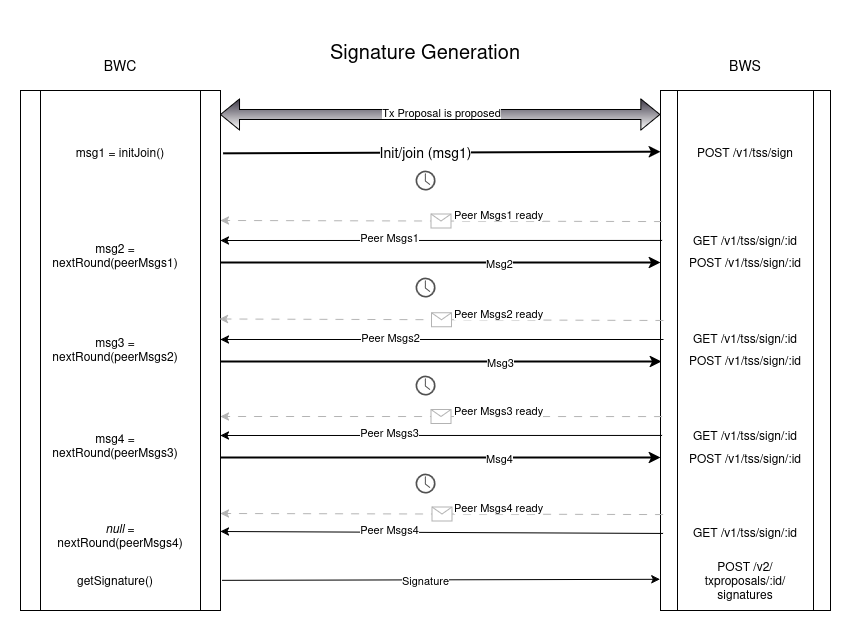
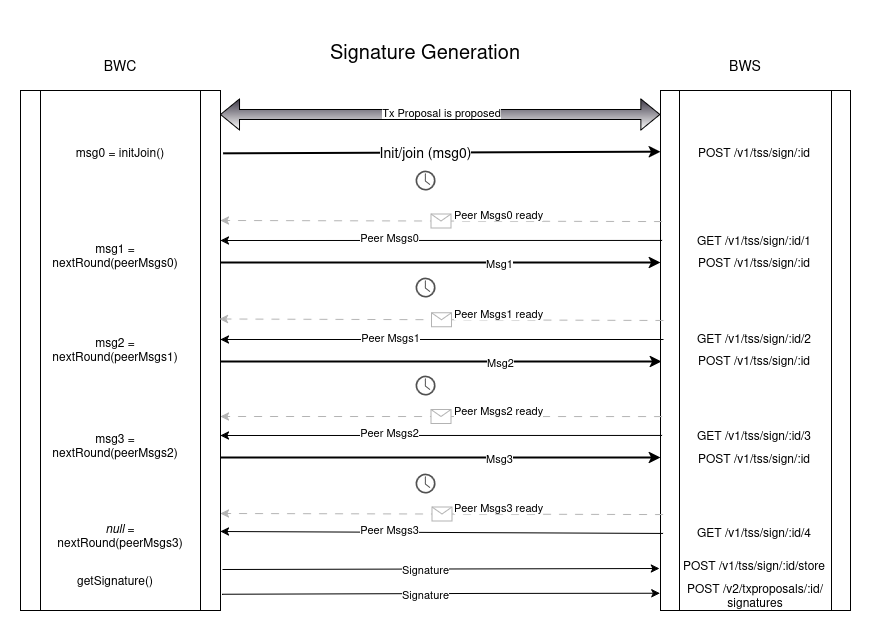
update documentation & tweak data structures for clarity

diff --git a/packages/bitcore-wallet-service/src/lib/tss.ts b/packages/bitcore-wallet-service/src/lib/tss.ts
@@ -47,8 +47,8 @@ class TssKeyGenClass {
     return {};
   }
 
-  async processMessage(params: { id: string; message: ITssKeyMessageObject; copayerId: string; }) {
-    const { id, message, copayerId } = params;
+  async processMessage(params: { id: string; message: ITssKeyMessageObject; n?: string | number; password?: string; copayerId: string; }) {
+    const { id, message, n, copayerId } = params;
     if (!id || typeof id !== 'string') {
       throw Errors.TSS_GENERIC_ERROR.withMessage('Invalid id provided: ' + id);
     }
@@ -82,7 +82,7 @@ class TssKeyGenClass {
       if (!this._isValidBroadcastMessage({ message })) {
         throw Errors.TSS_INVALID_MESSAGE.withMessage('Invalid broadcast message provided');
       }
-      await this._initSession({ id, message, storage, copayerId });
+      await this._initSession({ id, message, n, storage, copayerId });
     } else {
       throw Errors.TSS_SESSION_NOT_FOUND;
     }
@@ -116,20 +116,24 @@ class TssKeyGenClass {
       typeof message?.p2pMessages?.[0]?.commitment === 'string';
   }
 
-  private async _initSession(params: { id: string; message: ITssKeyMessageObject & { n?: number | string; password?: string }; storage: Storage; copayerId: string; }) {
-    const { id, message, storage, copayerId } = params;
-    const n = parseInt(message.n as string);
+  private async _initSession(params: {
+    id: string;
+    message: ITssKeyMessageObject,
+    n: number | string;
+    password?: string;
+    storage: Storage;
+    copayerId: string;
+  }) {
+    const { id, message, password, storage, copayerId } = params;
+    const n = parseInt(params.n as string);
     if (!n || n < 1) {
       throw Errors.TSS_GENERIC_ERROR.withMessage('Invalid n provided: ' + n);
     }
 
     let passwordHash: string = null;
-    if (message.password) {
-      passwordHash = BitcoreLib.crypto.Hash.sha256(Buffer.from(id + message.password)).toString('hex');
+    if (password) {
+      passwordHash = BitcoreLib.crypto.Hash.sha256(Buffer.from(id + password)).toString('hex');
     }
-    
-    delete message.n;
-    delete message.password;
     
     const doc = TssKeyGenModel.create({
       id,

diff --git a/packages/bitcore-wallet-client/src/lib/tsskey.ts b/packages/bitcore-wallet-client/src/lib/tsskey.ts
@@ -240,10 +240,8 @@ export class TssKeyGen extends EventEmitter {
     this.partyId = parseInt(partyId);
 
     const msg = await keygen.initJoin();
-    if (password || extra) {
-      msg.password = password || extra;
-    }
-    await this.#request.post('/v1/tss/keygen/' + this.id, msg);
+    password = password || extra;
+    await this.#request.post('/v1/tss/keygen/' + this.id, { message: msg, n: this.n, password });
     return this;
   }
 
@@ -283,7 +281,7 @@ export class TssKeyGen extends EventEmitter {
    * - `roundsubmitted` => number: A round has been submitted to the server. Emits the round number
    * - `keychain` => IKeyChain: The keychain is ready. Emits the keychain object
    * - `complete` => void: The key generation process is complete
-   * - `error` => Error: An error occurred during the process. Emits the error
+   * - `error` => Error: An error occurred during the process. Emits the error. Note that this will not stop the subscription.
    * @param {object} [params]
    * @param {number} [params.timeout] Timeout in milliseconds for the subscription to check for new messages (default: 1000)
    * @param {function} [params.iterHandler] Custom function to fire every iteration. Does not fire on error. 
@@ -310,7 +308,7 @@ export class TssKeyGen extends EventEmitter {
             if (!this.#keygen.isKeyChainReady()) {
               // For 2 P2P messages (i.e. party of 3), it already exceeds 100 KB (190 KB)
               // Assuming ~80KB per message, the max server size of 2MB would be ~25 P2P messages
-              await this.#request.post(`/v1/tss/keygen/${this.id}`, msg);
+              await this.#request.post(`/v1/tss/keygen/${this.id}`, { message: msg });
               this.emit('roundsubmitted', thisRound);
             }
           } catch (err) {

diff --git a/packages/bitcore-wallet-client/src/lib/tsssign.ts b/packages/bitcore-wallet-client/src/lib/tsssign.ts
@@ -135,7 +135,7 @@ export class TssSign extends EventEmitter {
    * - `roundsubmitted` => number: A round has been submitted to the server. Emits the round number
    * - `signature` => ISignature: The signature is ready. Emits the signature object
    * - `complete` => void: The signature generation process is complete
-   * - `error` => Error: An error occurred during the process. Emits the error
+   * - `error` => Error: An error occurred during the process. Emits the error. Note that this will not stop the subscription.
    * @param {object} [params]
    * @param {number} [params.timeout] Timeout in milliseconds for the subscription to check for new messages (default: 1000)
    * @param {function} [params.iterHandler] Custom function to fire every iteration. Does not fire on error. 
@@ -162,7 +162,7 @@ export class TssSign extends EventEmitter {
             if (!this.#sign.isSignatureReady()) {
               // For 2 P2P messages (i.e. party of 3), it already exceeds 100 KB (190 KB)
               // Assuming ~80KB per message, the max server size of 2MB would be ~25 P2P messages
-              await this.#request.post(`/v1/tss/sign/${this.id}`, msg);
+              await this.#request.post(`/v1/tss/sign/${this.id}`, { message: msg });
               this.emit('roundsubmitted', thisRound);
             }
           } catch (err) {

diff --git a/packages/bitcore-wallet-service/src/lib/routes/tss.ts b/packages/bitcore-wallet-service/src/lib/routes/tss.ts
@@ -24,9 +24,9 @@ export class TssRouter {
     router.post('/v1/tss/keygen/:id', createWalletLimiter(opts), verifyTssMessage, async function(req, res) {
       try {
         const id = req.params.id;
-        const msg = req.body;
+        const { message, n, password } = req.body;
         const copayerId = req.headers['x-identity'];
-        await TssKeyGen.processMessage({ id, message: msg, copayerId });
+        await TssKeyGen.processMessage({ id, message, n, password, copayerId });
         return res.send();
       } catch (err) {
         return returnError(err ?? 'unknown', res, req);
@@ -60,9 +60,9 @@ export class TssRouter {
     router.post('/v1/tss/sign/:id', authRequest(), verifyTssMessage, async function(req, res) {
       try {
         const id = req.params.id;
-        const msg = req.body;
+        const { message } = req.body;
         const copayerId = req.headers['x-identity'];
-        await TssSign.processMessage({ id, message: msg, copayerId });
+        await TssSign.processMessage({ id, message, copayerId });
         return res.send();
       } catch (err) {
         return returnError(err ?? 'unknown', res, req);

diff --git a/packages/bitcore-wallet-service/TSS.md b/packages/bitcore-wallet-service/TSS.md
@@ -1,5 +1,5 @@
 # DKG
-This document explains the specs for the client implementation of distributed key generation (DKG) for the threshold signature scheme (TSS).
+This document explains the specs for the client implementation of distributed _key_ generation (DKG) for the threshold signature scheme (TSS). This logic is mostly abstracted away by the `TssKeyGen` class in `bitcore-wallet-client/lib/tsskey.ts`.
 
 
 ### Asynchronous DKG
@@ -9,8 +9,9 @@ If the DKG ceremony is executed asynchronously (meaning all parties are not requ
 ![DKG Flow](https://drive.google.com/uc?export=view&id=1A-zzWamhDmFzPY7GUqYNvc8BFHMUM22c)
 
 ### API Spec
+
 <details>
-<summary style="font-size:17px"><span style="font-weight:bold">POST</span> /v1/tss/keygen</summary>
+<summary style="font-size:17px"><span style="font-weight:bold">POST</span> /v1/tss/keygen/:id</summary>
 
 Initialize the `KeyGen` class with a seed that is the derived private key.
 
@@ -23,26 +24,16 @@ Initialize the `KeyGen` class with a seed that is the derived private key.
 ### Request body:
 ```typescript
 {
-  sessionId: string,
-  message: {
-    partyId: number,
-    publicKey: string,
-    broadcastMessages: Array<string>
-  }
+  message: object, // Message object from the TSS keygen initJoin() or nextRound() methods
+  n?: number, // Number of participants. Only provided by party 0 when initiating the session
+  password?: string // Optional join password set by party 0 when initiating the session
 }
-
 ```
 
 ### Response body:
 ```typescript
-{
-  error?: string,
-  result?: {
-    sessionId: string
-  }
-}
+None
 ```
-
 </details>
 
 <details>
@@ -56,42 +47,9 @@ None
 ### Response body:
 ```typescript
 {
-  error?: string,
-  result?: {
-    sessionId: string,
-    round: number,
-    messages: Array<{
-      partyId: number,
-      publicKey: string,
-      p2pMessages: Array<string>,
-      broadcastMessages: Array<string>
-    }>,
-  }
-}
-```
-</details>
-
-<details>
-<summary style="font-size:17px"><span style="font-weight:bold">POST</span> /v1/tss/keygen/:id</summary>
-
-### Request body:
-```typescript
-{
-  message?: { // provided during rounds
-    round: number,
-    partyId: number,
-    publicKey: string,
-    p2pMessages: Array<string>,
-    broadcastMessages: Array<string>
-  },
-  address?: string, // provided after the final round
-}
-```
-
-### Response body:
-```typescript
-{
-  error?: string,
+  messages?: Array, // Array of P2P or Broadcast messages ready to be given to the TSS keygen nextRound() method. Only given if ALL other-party messages are posted
+  publicKey?: string, // The resulting public key at the end of the session
+  hasKeyBackup?: boolean // Indicates if this party's encrypted key share has been backed up to the server
 }
 ```
 </details>
@@ -99,26 +57,27 @@ None
 <details>
 <summary style="font-size:17px"><span style="font-weight:bold">POST</span> /v1/tss/keygen/:id/store</summary>
 
-> THIS IS A SUB-OPTIMAL ENDPOINT. We do NOT want users to be dependent on our servers for recovering their funds. However, this is a stop-gap until we have DKG recovery implemented.
 
 ### Request body:
 ```typescript
 {
-  keychain?: string, // keychain encrypted with seed (or perhaps a derivation of seed?)
+  publicKey?: string, // The resulting public key 
+  encryptedKeyChain?: string, // Your encrypted key share
 }
 ```
+> THIS IS A SUB-OPTIMAL ENDPOINT. We do NOT want users to be dependent on our servers for recovering their funds. However, this is a stop-gap until we have DKG recovery implemented.
 
 ### Response body:
 ```typescript
-{
-  error?: string,
-}
+None
 ```
 </details>
 
 <span style="padding:20px"> </span>
 
 # DSG
+This document explains the specs for the client implementation of distributed _signature_ generation (DSG) for the threshold signature scheme (TSS). This logic is mostly abstracted away by the `TssSign` class in `bitcore-wallet-client/lib/tsssign.ts`.
+
 
 ### Asynchronous DSG
 If the DSG ceremony is executed asynchronously (meaning all signing parties are not required to be online at the same time during the DSG), the `sign.export()` function should be used between each step to export the local session state. The session state should be securely stored and used with `Sign.restore()` for following steps.
@@ -128,31 +87,19 @@ If the DSG ceremony is executed asynchronously (meaning all signing parties are 
 
 ### API Spec
 <details>
-<summary style="font-size:17px"><span style="font-weight:bold">POST</span> /v1/tss/sign</summary>
+<summary style="font-size:17px"><span style="font-weight:bold">POST</span> /v1/tss/sign/:id</summary>
 
 ### Request body:
 ```typescript
 {
-  sessionId: string,
-  message: {
-    partyId: number,
-    publicKey: string,
-    broadcastMessages: Array<string>
-  }
+  message: object // Message object from the TSS sign initJoin() or nextRound() methods
 }
-
 ```
 
 ### Response body:
 ```typescript
-{
-  error?: string,
-  result?: {
-    sessionId: string
-  }
-}
+None
 ```
-
 </details>
 
 <details>
@@ -166,42 +113,24 @@ None
 ### Response body:
 ```typescript
 {
-  error?: string,
-  result?: {
-    sessionId: string,
-    round: number,
-    messages: Array<{
-      partyId: number,
-      publicKey: string,
-      p2pMessages: Array<string>,
-      broadcastMessages: Array<string>
-    }>,
-  }
+  messages?: Array, // Array of P2P or Broadcast messages ready to be given to the TSS keygen nextRound() method. Only given if ALL other-party messages are posted
+  signature?: // The resulting signature at the end of the session. The existence indicates the session has ended
 }
 ```
 </details>
 
 <details>
-<summary style="font-size:17px"><span style="font-weight:bold">POST</span> /v1/tss/sign/:id</summary>
+<summary style="font-size:17px"><span style="font-weight:bold">POST</span> /v1/tss/sign/:id/store</summary>
 
 ### Request body:
 ```typescript
 {
-  message?: { // provided during rounds
-    round: number,
-    partyId: number,
-    publicKey: string,
-    p2pMessages: Array<string>,
-    broadcastMessages: Array<string>
-  },
-  signature?: string, // provided after the final round
+  signature?: string, // Provided after the final round
 }
 ```
 
 ### Response body:
 ```typescript
-{
-  error?: string,
-}
+None
 ```
 </details>
